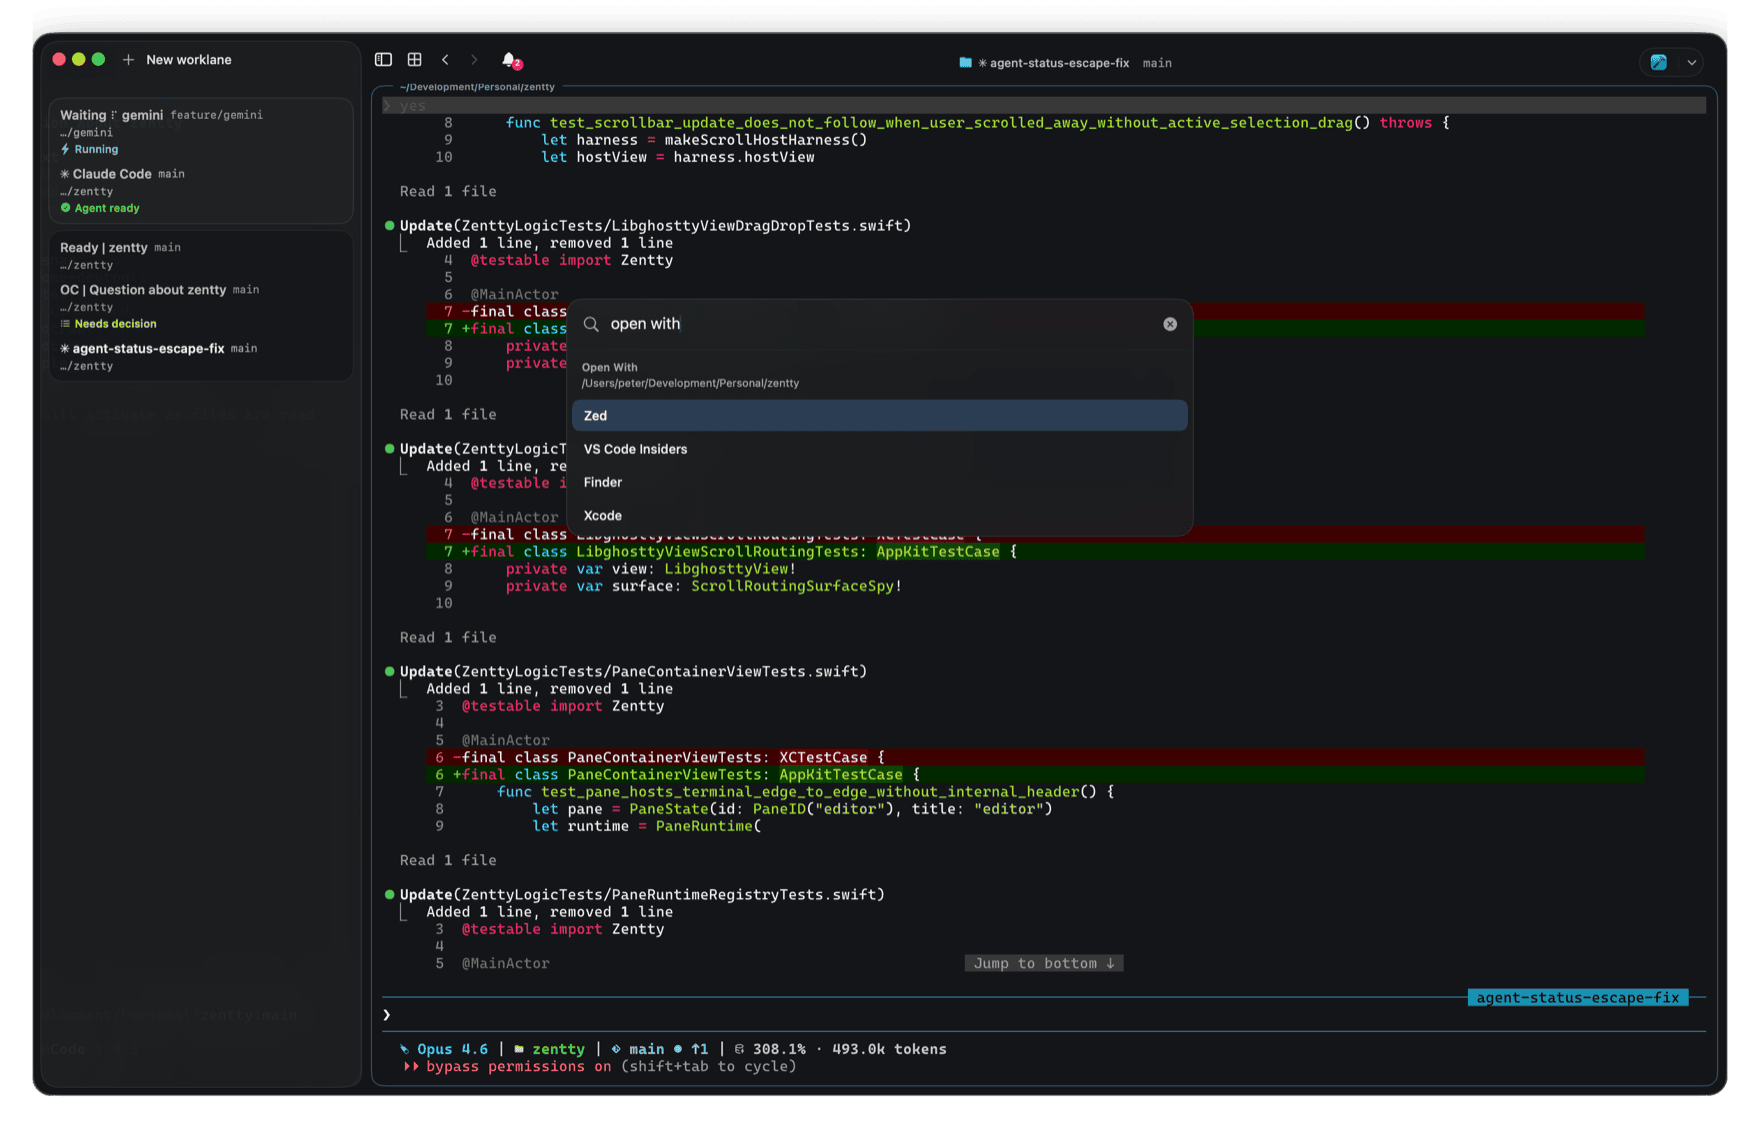
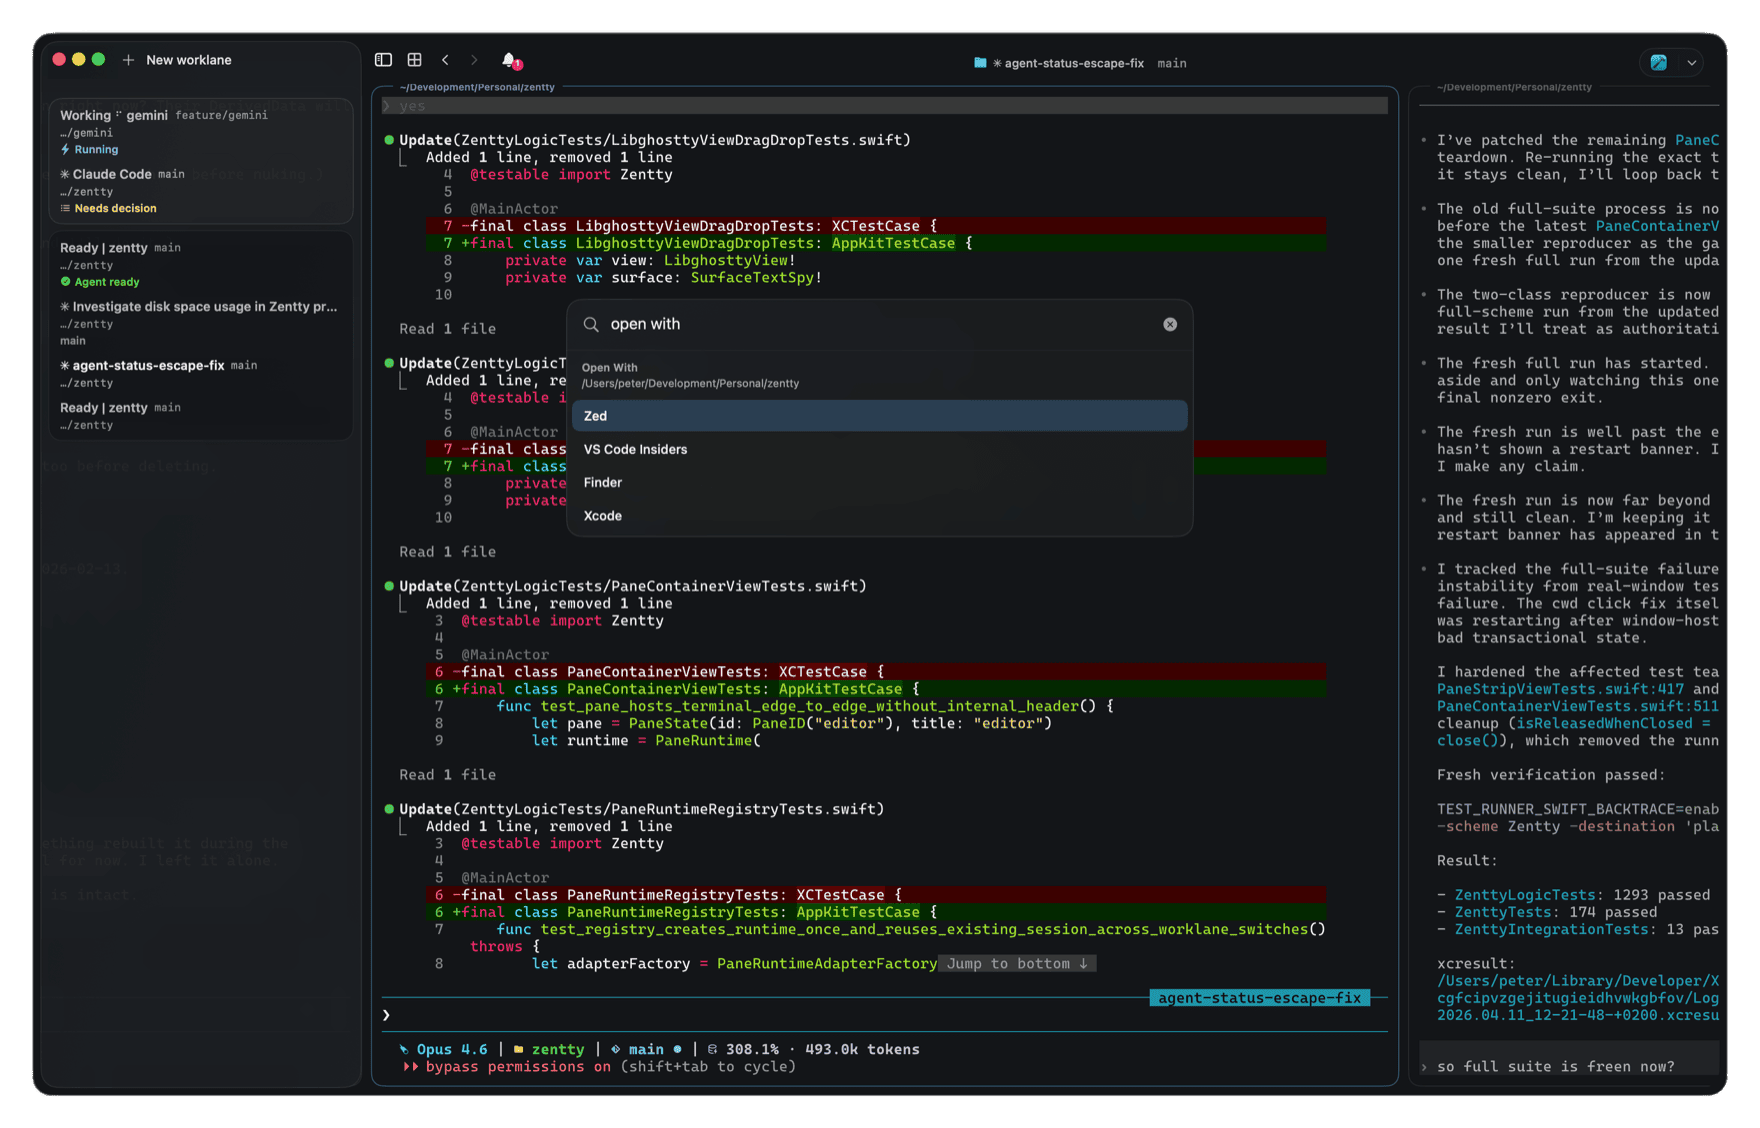
docs(readme): add install section and refresh screenshot
Add a user-facing Install section pointing to GitHub Releases and
Sparkle auto-update, note that builds are signed and notarized, and
replace the hero screenshot with a newer capture.

diff --git a/README.md b/README.md
@@ -9,11 +9,11 @@
     <br />
     Zentty gets out of the way — minimal friction, maximum focus.
     <br />
+    <a href="#install">Install</a>
+    ·
     <a href="#status">Status</a>
     ·
     <a href="#build">Build</a>
-    ·
-    <a href="#test">Test</a>
     ·
     <a href="CONTRIBUTING.md">Contributing</a>
   </p>
@@ -31,6 +31,14 @@
 - **Agent-aware.** Claude Code, Codex, Copilot CLI, Gemini CLI, and OpenCode report their status into the sidebar — you see what they're doing, what they're asking, and when they need you, without switching panes.
 - **Native Ghostty themes.** Zentty reads Ghostty's own theme files — your `~/.config/ghostty/themes` and the bundled library — with automatic light/dark switching.
 - **Built on Ghostty.** The renderer, shell integration, and terminal engine are all `libghostty`. Zentty is the window around it.
+
+## Install
+
+Download the latest `.dmg` from the [releases page](https://github.com/dedene/zentty/releases/latest), open it, and drag Zentty to your Applications folder.
+
+Zentty updates itself in place via [Sparkle](https://sparkle-project.org) once installed — no need to check back here for new versions.
+
+Builds are signed and notarized by Zenjoy BV. Requires macOS 26 (Tahoe) or later.
 
 ## Status
 